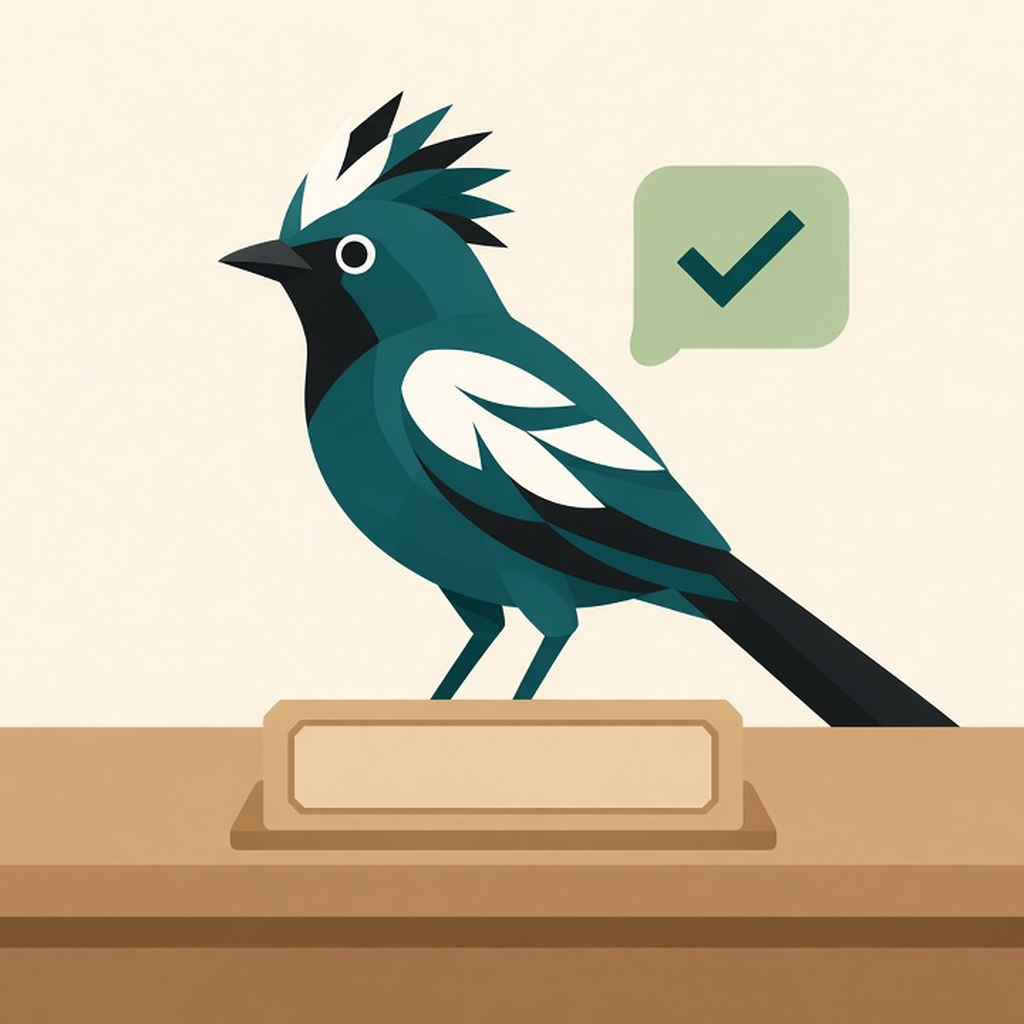
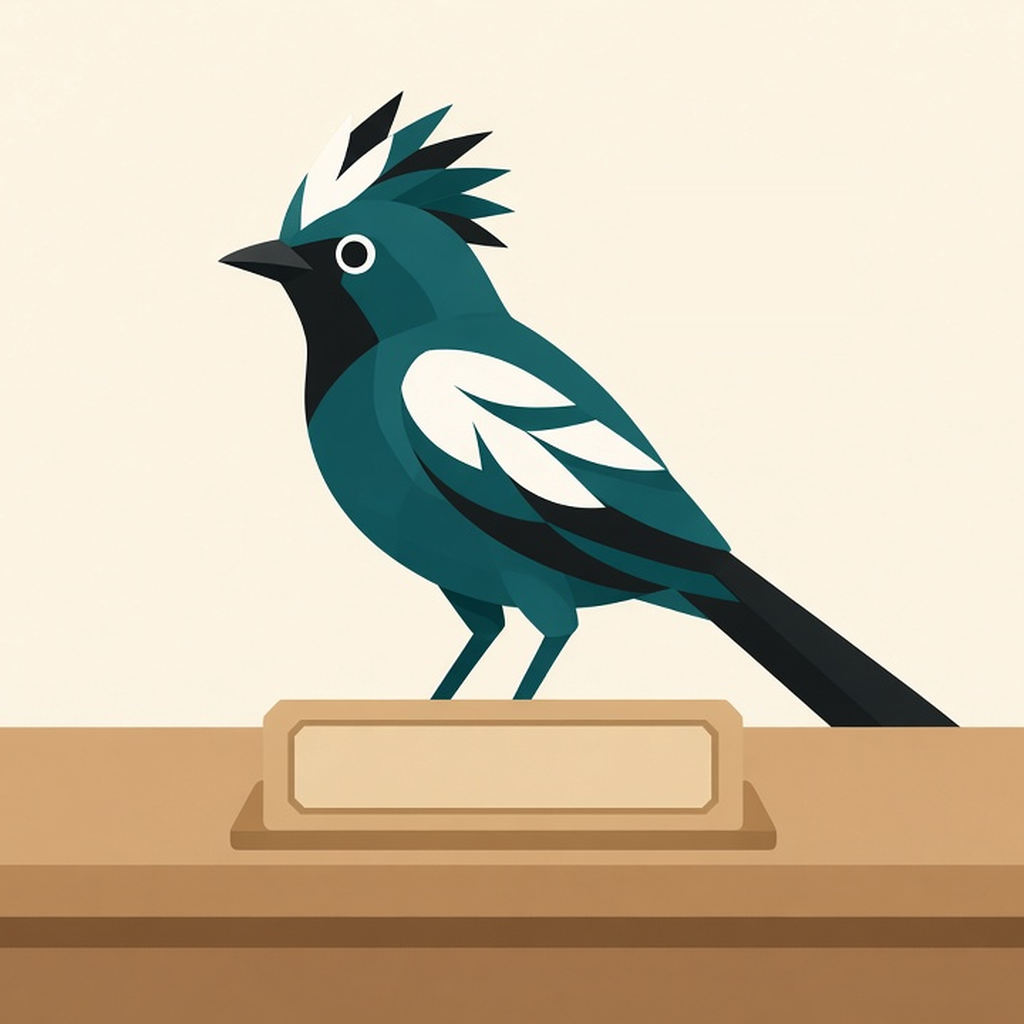
Hub: Hoy tile art no longer carries a baked-in check; only the state badge marks today done (#383)

Changed region(s): [[0.5938, 0.1562, 0.8438, 0.375]]

diff --git a/src/hoyStaleCheck.test.jsx b/src/hoyStaleCheck.test.jsx
@@ -1,0 +1,54 @@
+/** Hoy tile ✓ only when today is done (Varys walk-381-382, Oct 21). The tile art used to carry a baked-in ✓. */
+import { afterEach, describe, expect, it, vi } from "vitest";
+import { cleanup, fireEvent, render, screen } from "@testing-library/react";
+import App from "./App.jsx";
+import { dayKeyFromDate, prevDayKey } from "./firstDoor.js";
+import { createHash } from "node:crypto";
+import { readFileSync } from "node:fs";
+
+const mockBrowser = () => {
+  window.SpeechSynthesisUtterance = class { constructor(text) { this.text = text; } };
+  Object.defineProperty(window, "speechSynthesis", { configurable: true, value: { getVoices: () => [], speak: vi.fn(), cancel() {}, resume() {}, addEventListener() {}, removeEventListener() {} } });
+  window.AudioContext = class {
+    constructor() { this.state = "running"; this.currentTime = 0; this.destination = {}; }
+    createGain() { return { connect() {}, gain: { setValueAtTime() {}, linearRampToValueAtTime() {}, exponentialRampToValueAtTime() {} } }; }
+    createOscillator() { return { connect() {}, start() {}, stop() {}, frequency: { setValueAtTime() {}, exponentialRampToValueAtTime() {} }, detune: { setValueAtTime() {} }, type: "sine" }; }
+    createBuffer() { return { getChannelData: () => new Float32Array(8) }; }
+    createBufferSource() { return { connect() {}, start() {}, stop() {}, buffer: null }; }
+    createBiquadFilter() { return { connect() {}, type: "lowpass", frequency: { value: 0 } }; }
+    resume() {}
+  };
+};
+
+function seed({ today, lastDay, missions = {}, xpToday = 0, uiLang = "es" }) {
+  localStorage.clear(); sessionStorage.clear(); mockBrowser();
+  const d1 = prevDayKey(prevDayKey(today));
+  localStorage.setItem("andale-v3", JSON.stringify({ welcomed: true, xp: 60, xpToday, gems: 15, name: "Ana", contentVersion: 2, hearts: 5, onboardingDone: true, firstSessionDone: true, paywallSeen: true, bajioUnlockSeen: true, lecturaStartedAt: 1, streak: 2, lastDay, firstActivityDay: d1, theme: "light", uiLang, done: { u1: 1 }, missions, stories: { "story-0": true, "story-1": true } }));
+  localStorage.setItem("andale-first-activity", d1);
+  render(<App />);
+}
+
+describe("Hoy tile done check", () => {
+  afterEach(() => { cleanup(); localStorage.clear(); });
+
+  it.each(["es", "en"])("%s: new day after completing yesterday (scene + goal) shows no check", async (uiLang) => {
+    const today = dayKeyFromDate(new Date());
+    const yd = prevDayKey(today);
+    seed({ today, lastDay: yd, missions: { [`scene-${yd}`]: true }, xpToday: 80, uiLang });
+    const tile = await screen.findByTestId("hub-hoy");
+    expect(screen.queryByTestId("hub-hoy-done")).toBeNull();
+    expect(tile.getAttribute("data-hub-hoy-done")).toBeNull();
+  });
+
+  it("today's scene completed shows the check", async () => {
+    const today = dayKeyFromDate(new Date());
+    seed({ today, lastDay: today, missions: { [`scene-${today}`]: true } });
+    await screen.findByTestId("hub-hoy");
+    expect(screen.getByTestId("hub-hoy-done").textContent).toBe("✓");
+  });
+
+  it("the Hoy tile art carries no baked-in check (bubble painted out)", () => {
+    const sha = createHash("sha256").update(readFileSync("public/hub/hoy.png")).digest("hex");
[1 lines of base64/hex data omitted]
+  });
+});
